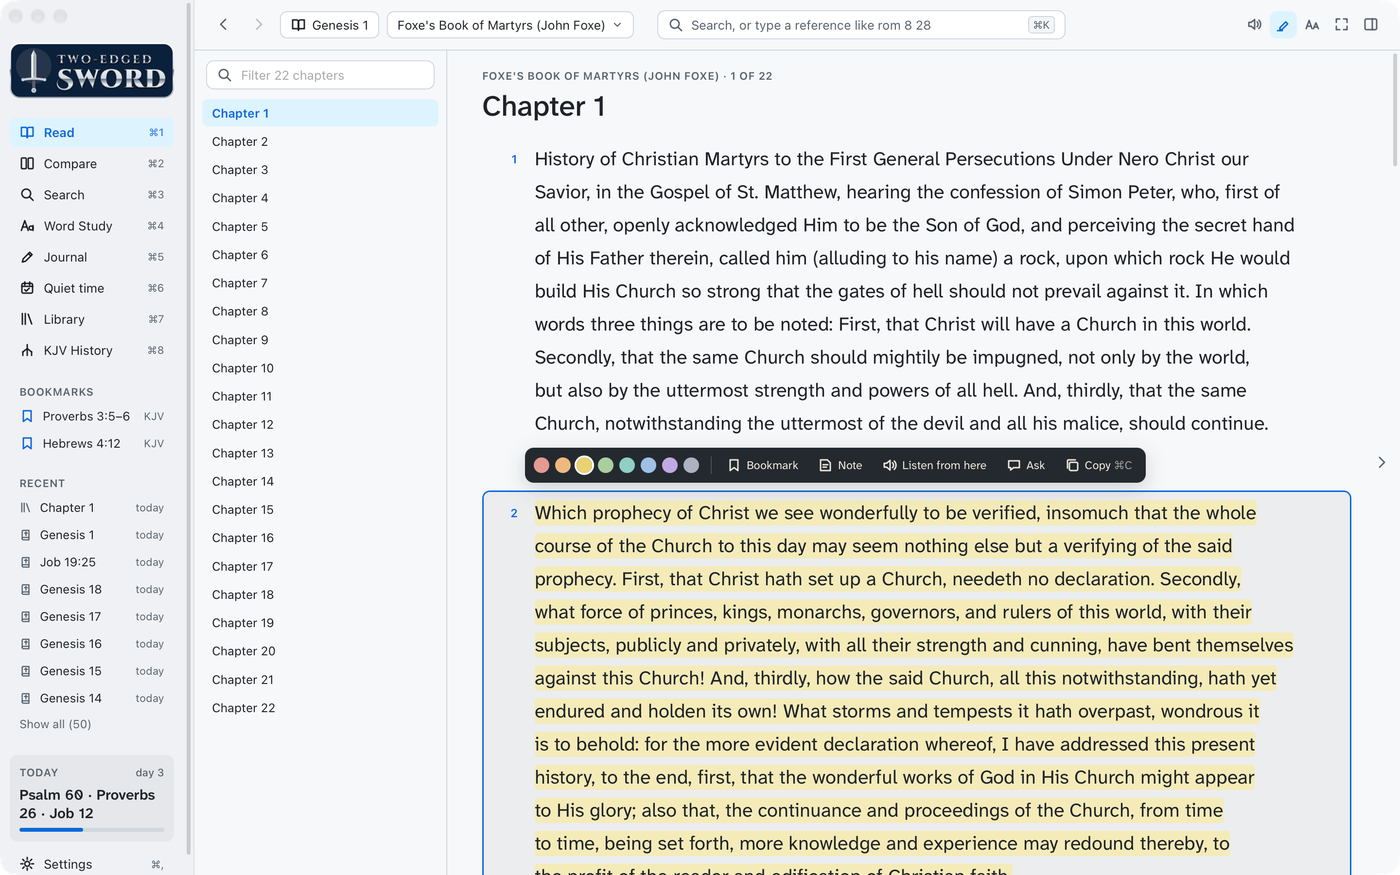
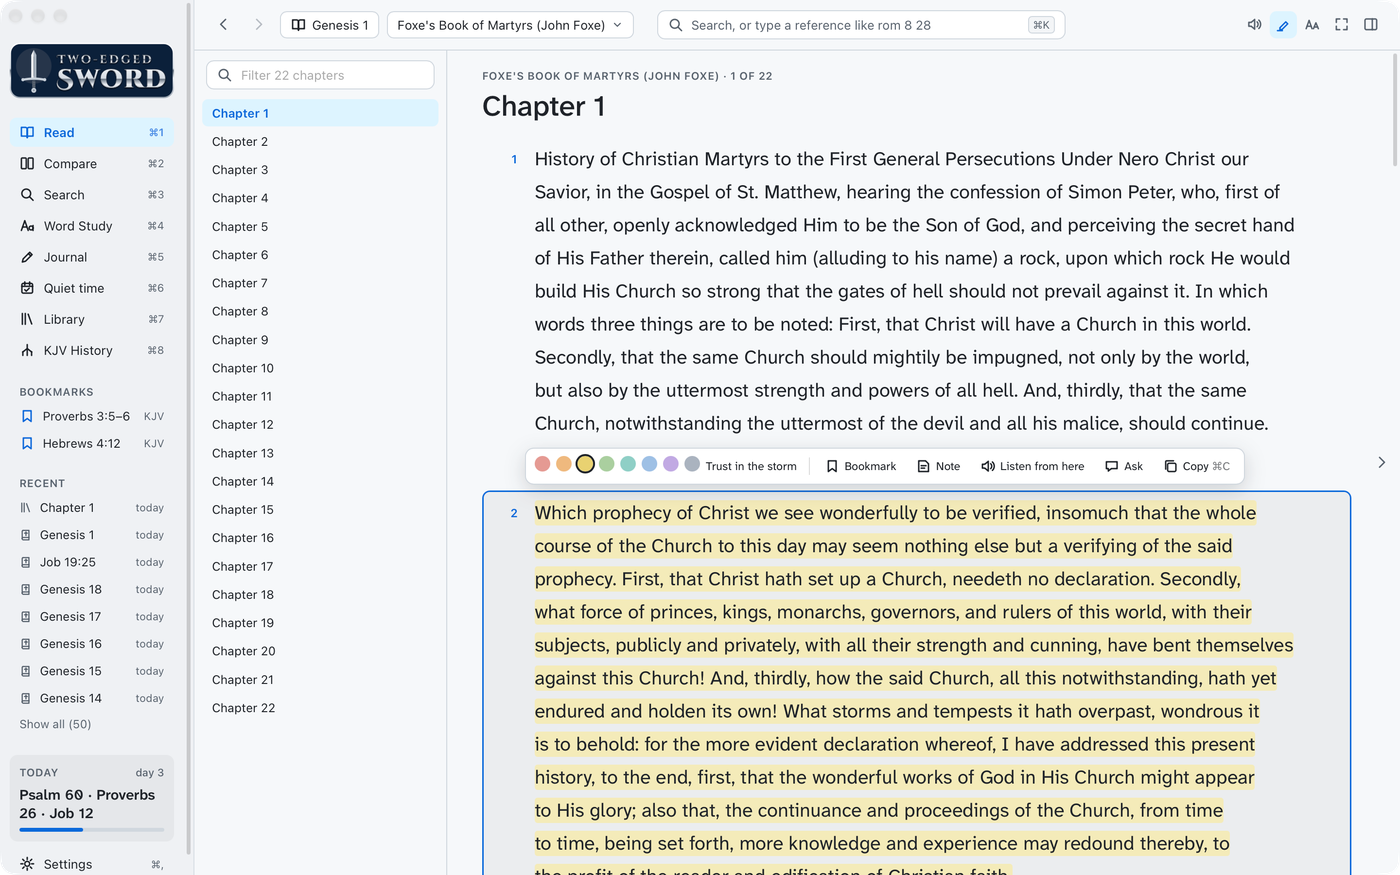
Verse and paragraph toolbar: light in light mode (white, bordered, dark text; the chosen colour ringed dark), and the colour's name shows in both readers, legibly; Books screenshots retaken

Changed region(s): [[0.3686, 0.4937, 0.8907, 0.5554]]

diff --git a/src/styles.css b/src/styles.css
@@ -9,7 +9,7 @@
   --accent: #0969da; --onaccent: #ffffff; --accentsoft: #ddf4ff; --ring: #80ccff; --red: #cf222e;
   --hl-gold: #f3e2b3; --hl-red: #f6d6d2; --hl-orange: #f8e2c8; --hl-yellow: #f4ebb8; --hl-green: #dcead9; --hl-blue: #d8e6f5; --hl-purple: #e6dcf4; --hl-teal: #d4ece8; --hl-grey: #d9dee6;
   --sidebar: #eef1f4; --sbborder: #d8dee4; --hover: rgba(0, 0, 0, 0.045); --shadow: rgba(31, 35, 40, 0.18);
-  --scrim: rgba(31, 35, 40, 0.34); --tbbg: #24292f; --track: #d0d7de; --dash: #c6ccd2; --good: #1a7f37; --bad: #cf222e;
+  --scrim: rgba(31, 35, 40, 0.34); --tbbg: #24292f; --vt-bg: #ffffff; --vt-fg: #1f2328; --vt-hover: rgba(0, 0, 0, 0.06); --vt-sep: rgba(0, 0, 0, 0.14); --vt-ring: #1f2328; --vt-border: #d0d7de; --track: #d0d7de; --dash: #c6ccd2; --good: #1a7f37; --bad: #cf222e;
   --pdbg: #dafbe1; --pdfg: #1a7f37; --pubg: #fff8c5; --pufg: #7d4e00; --barsoft: #8fb8e8;
   --navon-bg: #ddf4ff; --navon-fg: #0969da;
   --serif: "Source Serif 4 Variable", "Source Serif 4", Georgia, serif; --display: "EB Garamond", Garamond, Georgia, serif;
@@ -21,9 +21,9 @@
   color-scheme: light;
 }
 @media (prefers-color-scheme: dark) {
-  :root:not([data-theme="light"]) { --bg: #0d1117; --panel: #161b22; --panel2: #11161d; --border: #30363d; --text: #e6edf3; --muted: #8b949e; --accent: #58a6ff; --onaccent: #0d1117; --accentsoft: #132339; --ring: #1f6feb; --red: #ff7b72; --hl-gold: #3d3012; --hl-red: #49211f; --hl-orange: #47301a; --hl-yellow: #3f3914; --hl-green: #1b3524; --hl-blue: #172f4a; --hl-purple: #2f2548; --hl-teal: #133834; --hl-grey: #323a45; --sidebar: #010409; --sbborder: #21262d; --hover: rgba(177, 186, 196, 0.12); --shadow: rgba(1, 4, 9, 0.8); --scrim: rgba(1, 4, 9, 0.6); --tbbg: #21262d; --track: #30363d; --dash: #30363d; --good: #3fb950; --bad: #f85149; --pdbg: #12261e; --pdfg: #7ee787; --pubg: #2b2111; --pufg: #e3b341; --barsoft: #2f4f7f; --navon-bg: #1a2d45; --navon-fg: #79b8ff; color-scheme: dark; }
+  :root:not([data-theme="light"]) { --bg: #0d1117; --panel: #161b22; --panel2: #11161d; --border: #30363d; --text: #e6edf3; --muted: #8b949e; --accent: #58a6ff; --onaccent: #0d1117; --accentsoft: #132339; --ring: #1f6feb; --red: #ff7b72; --hl-gold: #3d3012; --hl-red: #49211f; --hl-orange: #47301a; --hl-yellow: #3f3914; --hl-green: #1b3524; --hl-blue: #172f4a; --hl-purple: #2f2548; --hl-teal: #133834; --hl-grey: #323a45; --sidebar: #010409; --sbborder: #21262d; --hover: rgba(177, 186, 196, 0.12); --shadow: rgba(1, 4, 9, 0.8); --scrim: rgba(1, 4, 9, 0.6); --tbbg: #21262d; --vt-bg: #21262d; --vt-fg: #ece6da; --vt-hover: rgba(255, 255, 255, 0.1); --vt-sep: rgba(255, 255, 255, 0.18); --vt-ring: #ffffff; --vt-border: transparent; --track: #30363d; --dash: #30363d; --good: #3fb950; --bad: #f85149; --pdbg: #12261e; --pdfg: #7ee787; --pubg: #2b2111; --pufg: #e3b341; --barsoft: #2f4f7f; --navon-bg: #1a2d45; --navon-fg: #79b8ff; color-scheme: dark; }
 }
-:root[data-theme="dark"] { --bg: #0d1117; --panel: #161b22; --panel2: #11161d; --border: #30363d; --text: #e6edf3; --muted: #8b949e; --accent: #58a6ff; --onaccent: #0d1117; --accentsoft: #132339; --ring: #1f6feb; --red: #ff7b72; --hl-gold: #3d3012; --hl-red: #49211f; --hl-orange: #47301a; --hl-yellow: #3f3914; --hl-green: #1b3524; --hl-blue: #172f4a; --hl-purple: #2f2548; --hl-teal: #133834; --hl-grey: #323a45; --sidebar: #010409; --sbborder: #21262d; --hover: rgba(177, 186, 196, 0.12); --shadow: rgba(1, 4, 9, 0.8); --scrim: rgba(1, 4, 9, 0.6); --tbbg: #21262d; --track: #30363d; --dash: #30363d; --good: #3fb950; --bad: #f85149; --pdbg: #12261e; --pdfg: #7ee787; --pubg: #2b2111; --pufg: #e3b341; --barsoft: #2f4f7f; --navon-bg: #1a2d45; --navon-fg: #79b8ff; color-scheme: dark; }
+:root[data-theme="dark"] { --bg: #0d1117; --panel: #161b22; --panel2: #11161d; --border: #30363d; --text: #e6edf3; --muted: #8b949e; --accent: #58a6ff; --onaccent: #0d1117; --accentsoft: #132339; --ring: #1f6feb; --red: #ff7b72; --hl-gold: #3d3012; --hl-red: #49211f; --hl-orange: #47301a; --hl-yellow: #3f3914; --hl-green: #1b3524; --hl-blue: #172f4a; --hl-purple: #2f2548; --hl-teal: #133834; --hl-grey: #323a45; --sidebar: #010409; --sbborder: #21262d; --hover: rgba(177, 186, 196, 0.12); --shadow: rgba(1, 4, 9, 0.8); --scrim: rgba(1, 4, 9, 0.6); --tbbg: #21262d; --vt-bg: #21262d; --vt-fg: #ece6da; --vt-hover: rgba(255, 255, 255, 0.1); --vt-sep: rgba(255, 255, 255, 0.18); --vt-ring: #ffffff; --vt-border: transparent; --track: #30363d; --dash: #30363d; --good: #3fb950; --bad: #f85149; --pdbg: #12261e; --pdfg: #7ee787; --pubg: #2b2111; --pufg: #e3b341; --barsoft: #2f4f7f; --navon-bg: #1a2d45; --navon-fg: #79b8ff; color-scheme: dark; }
 
 * { box-sizing: border-box; }
 html, body, #root { height: 100%; margin: 0; }
@@ -256,9 +256,9 @@ button.ks-chip { cursor: pointer; }
 .hl-purple { background: var(--hl-purple); border-radius: 3px; }
 .hl-teal { background: var(--hl-teal); border-radius: 3px; }
 .hl-grey { background: var(--hl-grey); border-radius: 3px; }
-.vtool { position: absolute; z-index: 20; display: flex; align-items: center; gap: 2px; padding: 3px 5px; border-radius: 9px; background: var(--tbbg); box-shadow: 0 6px 20px var(--shadow); }
-.vtool .tb { display: inline-flex; align-items: center; gap: 5px; height: 30px; padding: 0 9px; border: 0; border-radius: 6px; background: transparent; cursor: pointer; color: #ece6da; font-size: 12px; }
-.vtool .tb:hover { background: rgba(255, 255, 255, 0.1); }
+.vtool { position: absolute; z-index: 20; display: flex; align-items: center; gap: 2px; padding: 3px 5px; border-radius: 9px; background: var(--vt-bg); color: var(--vt-fg); border: 1px solid var(--vt-border); box-shadow: 0 6px 20px var(--shadow); }
+.vtool .tb { display: inline-flex; align-items: center; gap: 5px; height: 30px; padding: 0 9px; border: 0; border-radius: 6px; background: transparent; cursor: pointer; color: var(--vt-fg); font-size: 12px; }
+.vtool .tb:hover { background: var(--vt-hover); }
 /* The verse and paragraph toolbars show labels when their column has room, and only icons (each
    with its tooltip) when it doesn't: the text columns are size containers for this. */
 .readcol, .docbody { container-type: inline-size; }
@@ -266,7 +266,7 @@ button.ks-chip { cursor: pointer; }
 @container (max-width: 820px) { .vtool.fold-bible .lbl { display: none; } .vtool.fold-bible .tb { padding: 0 8px; } }
 @container (max-width: 640px) { .vtool.fold-doc .lbl { display: none; } .vtool.fold-doc .tb { padding: 0 8px; } }
 .vtool .dot, .hlpick .dot, .hlnames .dot { width: 16px; height: 16px; border-radius: 50%; border: 0; cursor: pointer; }
-.vtool .sep { width: 1px; height: 18px; background: rgba(255, 255, 255, 0.18); margin: 0 4px; }
+.vtool .sep { width: 1px; height: 18px; background: var(--vt-sep); margin: 0 4px; }
 .study { border-left: 1px solid var(--border); background: var(--panel2); display: flex; flex-direction: column; min-height: 0; position: relative; }
 .study .tabs { display: flex; align-items: center; gap: 4px; padding: 10px 14px; border-bottom: 1px solid var(--border); }
 .prose { font: 400 15.5px/1.65 var(--serif); text-wrap: pretty; }

diff --git a/src/DocReader.tsx b/src/DocReader.tsx
@@ -168,7 +168,8 @@ export function DocReader({ focus, setFocus, openPalette }: { focus: boolean; se
   const toolbar = sel && (
     <div className="vtool fold-doc" role="toolbar" aria-label="Paragraph actions" style={{ top: -44, left: 44 }} onClick={(e) => e.stopPropagation()}>
       <div style={{ display: "flex", gap: 6, padding: "0 6px 0 4px" }}>
-        {HL.map((c) => <button key={c} type="button" className="dot" aria-label={`Highlight: ${hlLabel(c, app.settings.hlNames)}`} title={hlLabel(c, app.settings.hlNames)} aria-pressed={curHl === c} style={{ background: HL_DOT[c], outline: curHl === c ? "2px solid #fff" : undefined }} onClick={() => setHl(curHl === c ? null : c)} />)}
+        {HL.map((c) => <button key={c} type="button" className="dot" aria-label={`Highlight: ${hlLabel(c, app.settings.hlNames)}`} title={hlLabel(c, app.settings.hlNames)} aria-pressed={curHl === c} style={{ background: HL_DOT[c], outline: curHl === c ? "2px solid var(--vt-ring)" : undefined }} onClick={() => setHl(curHl === c ? null : c)} />)}
+        {curHl && app.settings.hlNames?.[curHl]?.trim() && <span style={{ fontSize: 12, alignSelf: "center", whiteSpace: "nowrap", maxWidth: 160, overflow: "hidden", textOverflow: "ellipsis" }}>{hlLabel(curHl, app.settings.hlNames)}</span>}
       </div>
       <span className="sep" />
       {/* Labels show when the column has room, and fold to icons when it doesn't (.lbl, styles.css). */}

diff --git a/src/Read.tsx b/src/Read.tsx
@@ -311,7 +311,7 @@ export function ReadScreen({ focus, setFocus, openPalette }: { focus: boolean; s
   const toolbar = sel && (
     <div className="vtool fold-bible" dir="ltr" role="toolbar" aria-label="Verse actions" style={{ top: -44, left: 44 }} onClick={(e) => e.stopPropagation()}>
       <div style={{ display: "flex", gap: 6, padding: "0 6px 0 4px" }}>
-        {HL.map((c) => <button key={c} type="button" className="dot" aria-label={`Highlight: ${hlLabel(c, settings.hlNames)}`} title={hlLabel(c, settings.hlNames)} aria-pressed={curHl === c} style={{ background: HL_DOT[c], outline: curHl === c ? "2px solid #fff" : undefined }} onClick={() => setHl(curHl === c ? null : c)} />)}
+        {HL.map((c) => <button key={c} type="button" className="dot" aria-label={`Highlight: ${hlLabel(c, settings.hlNames)}`} title={hlLabel(c, settings.hlNames)} aria-pressed={curHl === c} style={{ background: HL_DOT[c], outline: curHl === c ? "2px solid var(--vt-ring)" : undefined }} onClick={() => setHl(curHl === c ? null : c)} />)}
         {curHl && settings.hlNames?.[curHl]?.trim() && <span style={{ fontSize: 12, alignSelf: "center", whiteSpace: "nowrap", maxWidth: 160, overflow: "hidden", textOverflow: "ellipsis" }}>{hlLabel(curHl, settings.hlNames)}</span>}
       </div>
       <span className="sep" />
